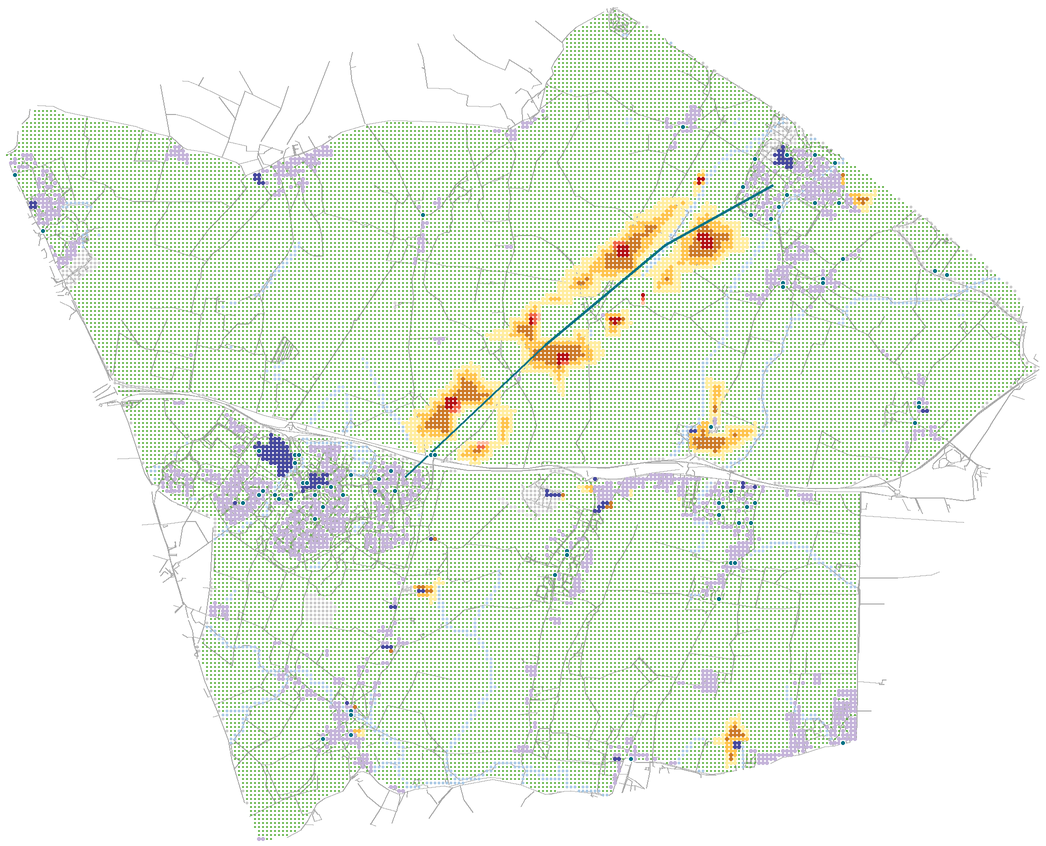
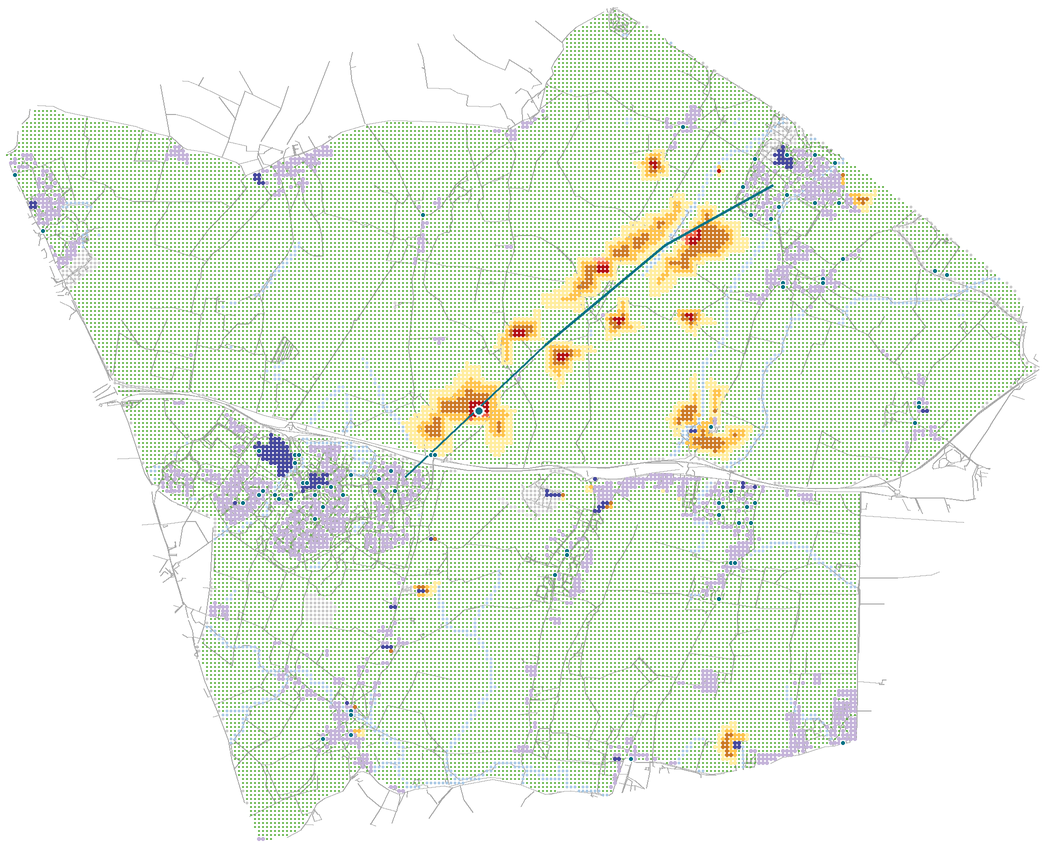
a proposed BRT hub joins the Cambourne corridor demonstration
The corridor alone exercised only the growth lever, since the Cambourne window
has no station. A proposed bus rapid transit stop
(scenarios/cambourne/proposed_station.geojson, a demonstration input) now sits
at the corridor's southern end beside the A428 junction and is treated as a
transit hub under the transit presets: it seeds a centre, joins the catchment
sources, and is pinned as a centre anchor in post-processing. The location
matters: at the town edge the hub was a no-op because the existing centres'
walk coverage already reached it, so it sits just beyond that coverage, where
a new settlement gathers around its pinned centre. The demonstration now
exercises both levers; the plan houses 11,265 with 66% of new homes in the
stop catchment.

Paper: the Cambourne paragraph and figure caption revised around both levers
with the new numbers. Website: the explorer preset note describes the hub
marker; the introduction caption points at the full-window demonstration; the
scenario README documents both proposed inputs.

diff --git a/scripts/render_scenario_gallery.py b/scripts/render_scenario_gallery.py
@@ -91,8 +91,11 @@ def presets_for(name: str, params: dict, has_stops: bool = False) -> list[dict]:
         base.append({"id": "corridor", "label": "Transit corridor preference",
                      "note": "Growth concentrates along transit: development draws outside the "
                              "400 m stop catchment are scaled by one minus the corridor "
-                             "preference (0.95 here). The teal line is a proposed bus route, "
-                             "the teal dots the existing stops; both project the catchment.",
+                             "preference (0.95 here). The teal line is a proposed bus route and "
+                             "the teal dots the existing stops; both project the catchment. The "
+                             "large ringed marker is a proposed bus rapid transit stop treated "
+                             "as a transit hub: it anchors a pinned centre, so a new settlement "
+                             "gathers around it.",
                      "overrides": {"corridor_weight": 0.95}})
     return base
 
@@ -102,7 +105,7 @@ def load_scenario(folder: str):
         params = json.load(fh)
     layers = {}
     for name in ("built", "green", "unbuildable", "centres", "streets", "water", "stops",
-                 "proposed_corridor"):
+                 "proposed_corridor", "proposed_station"):
         path = os.path.join(folder, f"{name}.geojson")
         if os.path.exists(path):
             with open(path, encoding="utf-8") as fh:
@@ -191,10 +194,19 @@ def substrate(extent, layers, gran):
                 c, r = int((p.x - gt[0]) / gran), int((gt[3] - p.y) / gran)
                 if 0 <= r < rows and 0 <= c < cols and inside[r, c] and state[r, c] != -1:
                     corridor.append((r, c))
+    # a proposed transit hub (a hand-drawn point): a pinned centre anchor under the
+    # transit presets, exactly as the plugin treats a point in the hubs layer
+    hubs = []
+    for geom in layers.get("proposed_station", []):
+        p = geom if geom.geom_type == "Point" else geom.representative_point()
+        c, r = int((p.x - gt[0]) / gran), int((gt[3] - p.y) / gran)
+        if 0 <= r < rows and 0 <= c < cols and inside[r, c]:
+            hubs.append((r, c))
+    hubs, _, _ = G.sanitise_seeds(sorted(set(hubs)), state, gran, 2 * gran)
     return {"state": state, "origin": origin, "seeds": sorted(set(seeds)), "gt": gt,
             "rows": rows, "cols": cols, "extent": extent, "inside": inside_mask,
             "steep": steep & ~built, "water": water & ~built, "stops": stops,
-            "corridor": sorted(set(corridor))}
+            "corridor": sorted(set(corridor)), "proposed_hubs": hubs}
 
 
 def _rgb(hexcol):
@@ -230,10 +242,13 @@ def run_preset(sub, params, preset):
         existing_centres=sub["seeds"], granularity_m=gran, centre_distance_m=walk,
     )
     # the corridor preference: cells outside the stop catchment draw at a scaled probability.
-    # The sources are the existing stops plus any proposed corridor the scenario ships.
+    # The sources are the existing stops plus any proposed corridor the scenario ships; a
+    # proposed hub joins the sources, seeds a centre in growth, and is pinned in
+    # post-processing (the plugin's transit-hub behaviour).
     corridor_w = float(p.get("corridor_weight", 0.0) or 0.0)
     catchment = None
-    anchor_cells = sub.get("stops", []) + sub.get("corridor", [])
+    hubs = list(sub.get("proposed_hubs", [])) if corridor_w > 0.0 else []
+    anchor_cells = sub.get("stops", []) + sub.get("corridor", []) + hubs
     if corridor_w > 0.0 and anchor_cells:
         stop_mask = np.zeros_like(state, bool)
         for r, c in anchor_cells:
@@ -242,8 +257,9 @@ def run_preset(sub, params, preset):
             stop_mask, gran, float(p.get("stop_catchment_m", 400.0)), blocked=(state == -1)
         )
         catchment = np.isfinite(d)
+    sim_seeds = sub["seeds"] + [h for h in hubs if h not in set(sub["seeds"])]
     sim = isobenefit.Simulation(
-        state, origin.copy(), np.zeros_like(state, np.float32), sub["seeds"],
+        state, origin.copy(), np.zeros_like(state, np.float32), sim_seeds,
         gran, walk, green_walk, float(p["target_population"]), float(p.get("min_green_span_m", 400.0)),
         float(p.get("build_prob", 0.25)), 0.01, DISPERSAL.get(str(p.get("dispersal", "moderate")), 0.0001),
         0.8, shares, tiers, int(p.get("max_iterations", 300)), int(p.get("random_seed", 42)),
@@ -257,6 +273,7 @@ def run_preset(sub, params, preset):
         [st], gran, max_walk,
         existing_built=(origin == 1), existing_green=(origin == 0),
         existing_centres=sub["seeds"], centre_mode=str(over.get("centre_mode", "placed")),
+        centre_anchors=hubs or None,
         centre_distance_m=walk, green_distance_m=green_walk,
         new_density_km2=sum(s * d for s, d in zip(shares, tiers)),
         centre_min_settlement=min_cells,
@@ -267,7 +284,7 @@ def run_preset(sub, params, preset):
     return disp, metrics
 
 
-def render_png(codes, layers, sub, gran, path, stops=None):
+def render_png(codes, layers, sub, gran, path, stops=None, hubs=None):
     """Dot-grid PNG with the street underlay: the same visual language as the site's SVGs at a
     fraction of the size (a 150-cell SVG carries ~20k circle elements; the PNG is tens of kB)."""
     from PIL import Image, ImageDraw
@@ -330,6 +347,13 @@ def render_png(codes, layers, sub, gran, path, stops=None):
             rad = P * 0.7
             draw.ellipse([cx - rad, cy - rad, cx + rad, cy + rad],
                          fill=_rgb(TRANSIT), outline=(255, 255, 255), width=2)
+    if hubs:
+        # a proposed transit hub: a heavier ringed marker, so the anchor stands apart
+        for r, c in hubs:
+            cx, cy = PAD + c * P + P / 2, PAD + r * P + P / 2
+            rad = P * 1.3
+            draw.ellipse([cx - rad, cy - rad, cx + rad, cy + rad],
+                         fill=_rgb(TRANSIT), outline=(255, 255, 255), width=4)
     im = im.resize((cw // 2, ch // 2), Image.LANCZOS)
     os.makedirs(os.path.dirname(path), exist_ok=True)
     im.save(path, optimize=True)
@@ -432,7 +456,8 @@ def entry_for(folder: str, extent_key: str, extent, params, layers, title, subti
         disp, metrics = run_preset(sub, p, preset)
         rel = f"{name}/{preset['id']}.png"
         render_png(disp, layers, sub, gran, os.path.join(OUT, rel),
-                   stops=sub["stops"] if preset["id"] == "corridor" else None)
+                   stops=sub["stops"] if preset["id"] == "corridor" else None,
+                   hubs=sub["proposed_hubs"] if preset["id"] == "corridor" else None)
         keep = {k: round(float(metrics.get(k, 0)), 3) for k in
                 ("served_coverage", "served_coverage_incl_existing",
                  "centre_access", "green_access", "population",

diff --git a/paper/main.tex b/paper/main.tex
@@ -597,20 +597,22 @@ against 46 as grown, and the mean centre walk ranges from 236 to
 placement and removes centres only while every home keeps one within
 the walk.
 
-A final run demonstrates the corridor preference. We draw a proposed
-bus corridor from Cambourne's eastern edge across the open plain to
-the window's north-eastern village, raise the corridor preference to
-0.95, and keep every other setting at the baseline. The window's
-existing bus stops also project the stop catchment at its 400~m
-default. In the selected plan (Figure~\ref{fig:corridor}), growth and
-its satellite settlements string along the proposed route instead of
-spreading across the window, and the share of new homes within the
-stop catchment rises from 5\% to 66\%. The population accommodated
-falls from 21{,}567 to 10{,}916, because draws outside the catchment
-run at a twentieth of their probability, and the run log warns when
-the catchment's developable capacity sits under the target. The mean
-walks change little, 292~m to a centre against 242~m and 111~m to
-green space against 104~m, and every home keeps both walks. The
+A final run exercises both transit levers. We draw a proposed bus
+corridor from Cambourne's eastern edge across the plain to the
+window's north-eastern village and add a proposed bus rapid transit
+stop as a transit hub at its southern end beside the A428 junction.
+The corridor preference is 0.95 and every other setting stays at the
+baseline. Growth and its satellite settlements string along the route
+instead of spreading across the window (Figure~\ref{fig:corridor}),
+and the share of new homes within the stop catchment rises from 5\%
+to 66\%. The hub lies just beyond the walk coverage of the existing
+centres, so it opens land they cannot reach, and a new settlement
+gathers around its pinned centre at the junction. The population
+accommodated falls from 21{,}567 to 11{,}265, because draws outside
+the catchment run at a twentieth of their probability, and the run
+log warns when catchment capacity sits under the target. The mean
+walks change little (306~m against 242~m to a centre, 109~m against
+104~m to green space), and every home keeps both walks. The
 preference trades pace for transit alignment, and the planner sets
 the balance.
 
@@ -655,8 +657,9 @@ Full scenario resolution, seed 42.}
 \includegraphics[width=\textwidth]{figures/legend.png}
 \caption{The selected plan for the Cambourne window at the baseline
 corridor preference of 0 (left) and at 0.95 (right). Both panels
-overlay the drawn bus route (teal line) and the existing stops (teal
-dots). Full scenario resolution, seed 42.}
+overlay the drawn bus route (teal line), the existing stops (teal
+dots), and the proposed hub (ringed teal marker). Full scenario
+resolution, seed 42.}
 \label{fig:corridor}
 \end{figure}
 

diff --git a/scripts/paper_metrics.py b/scripts/paper_metrics.py
@@ -111,9 +111,10 @@ def run_preset(sub, params, overrides, runs=50):
     # corridor (the route it is asked to develop along) to the sources.
     catchment_m = float(p.get("stop_catchment_m", 400.0))
     corridor_w = float(p.get("corridor_weight", 0.0) or 0.0)
+    hubs = list(sub.get("proposed_hubs", [])) if corridor_w > 0.0 else []
     anchor_cells = list(sub.get("stops", []))
     if corridor_w > 0.0:
-        anchor_cells += list(sub.get("corridor", []))
+        anchor_cells += list(sub.get("corridor", [])) + hubs
     stop_mask = None
     if anchor_cells:
         stop_mask = np.zeros_like(base_state, bool)
@@ -128,9 +129,10 @@ def run_preset(sub, params, overrides, runs=50):
     # member seeding the plugin (and demo_run_report.py) would produce
     seed = int(p.get("random_seed", 42))
     t0 = time.time()
+    sim_seeds = sub["seeds"] + [h for h in hubs if h not in set(sub["seeds"])]
     template = isobenefit.Simulation(
         base_state.copy(), base_origin.copy(),
-        np.zeros_like(base_state, np.float32), sub["seeds"],
+        np.zeros_like(base_state, np.float32), sim_seeds,
         gran, walk, green_walk, float(p["target_population"]),
         float(p.get("min_green_span_m", 400.0)), float(p.get("build_prob", 0.25)), 0.01,
         _gallery.DISPERSAL.get(str(p.get("dispersal", "moderate")), 0.0001),
@@ -146,6 +148,7 @@ def run_preset(sub, params, overrides, runs=50):
         states, gran, max_walk,
         existing_built=(base_origin == 1), existing_green=(base_origin == 0),
         existing_centres=sub["seeds"], centre_mode="placed",
+        centre_anchors=hubs or None,
         centre_distance_m=walk, green_distance_m=green_walk, new_density_km2=mean_density,
         centre_min_settlement=min_cells,
         target_population=float(p["target_population"]),
@@ -211,6 +214,7 @@ def main():
                 _gallery.render_png(
                     disp, layers, sub, gran,
                     os.path.join(FIGS, TRANSIT_PANELS[(name, preset_id)]), stops=sub["stops"],
+                    hubs=sub.get("proposed_hubs"),
                 )
             print(f"  {preset_id}: served {keep['served_coverage']:.0%}, "
                   f"pop {keep['population']:,.0f}, centre walk {keep['centre_walk_mean']:,.0f} m "

diff --git a/scenarios/README.md b/scenarios/README.md
@@ -20,9 +20,12 @@ Folder anatomy:
   data was fetched for.
 - `steep.geojson`: terrain slope bands from Copernicus GLO-30, where terrain matters; the
   scenario's `slope_max_deg` says which bands preclude development.
-- `proposed_corridor.geojson` (Cambourne only): a hand-drawn proposed bus route, not OSM
-  data. The transit-corridor preset adds its cells to the stops as growth anchors, so the
-  corridor preference can demonstrate growth along a proposed route.
+- `proposed_corridor.geojson` and `proposed_station.geojson` (Cambourne only): a
+  hand-drawn proposed bus route and a proposed bus rapid transit stop at its southern
+  end, not OSM data. The transit-corridor preset adds the route's cells to the stops as
+  growth anchors and treats the proposed stop as a transit hub (a pinned centre anchor),
+  so the corridor preference can demonstrate growth along a proposed route with a
+  transit-oriented settlement at the hub.
 
 Boundaries and parameters are indicative, to be confirmed against local plans and norms.
 
